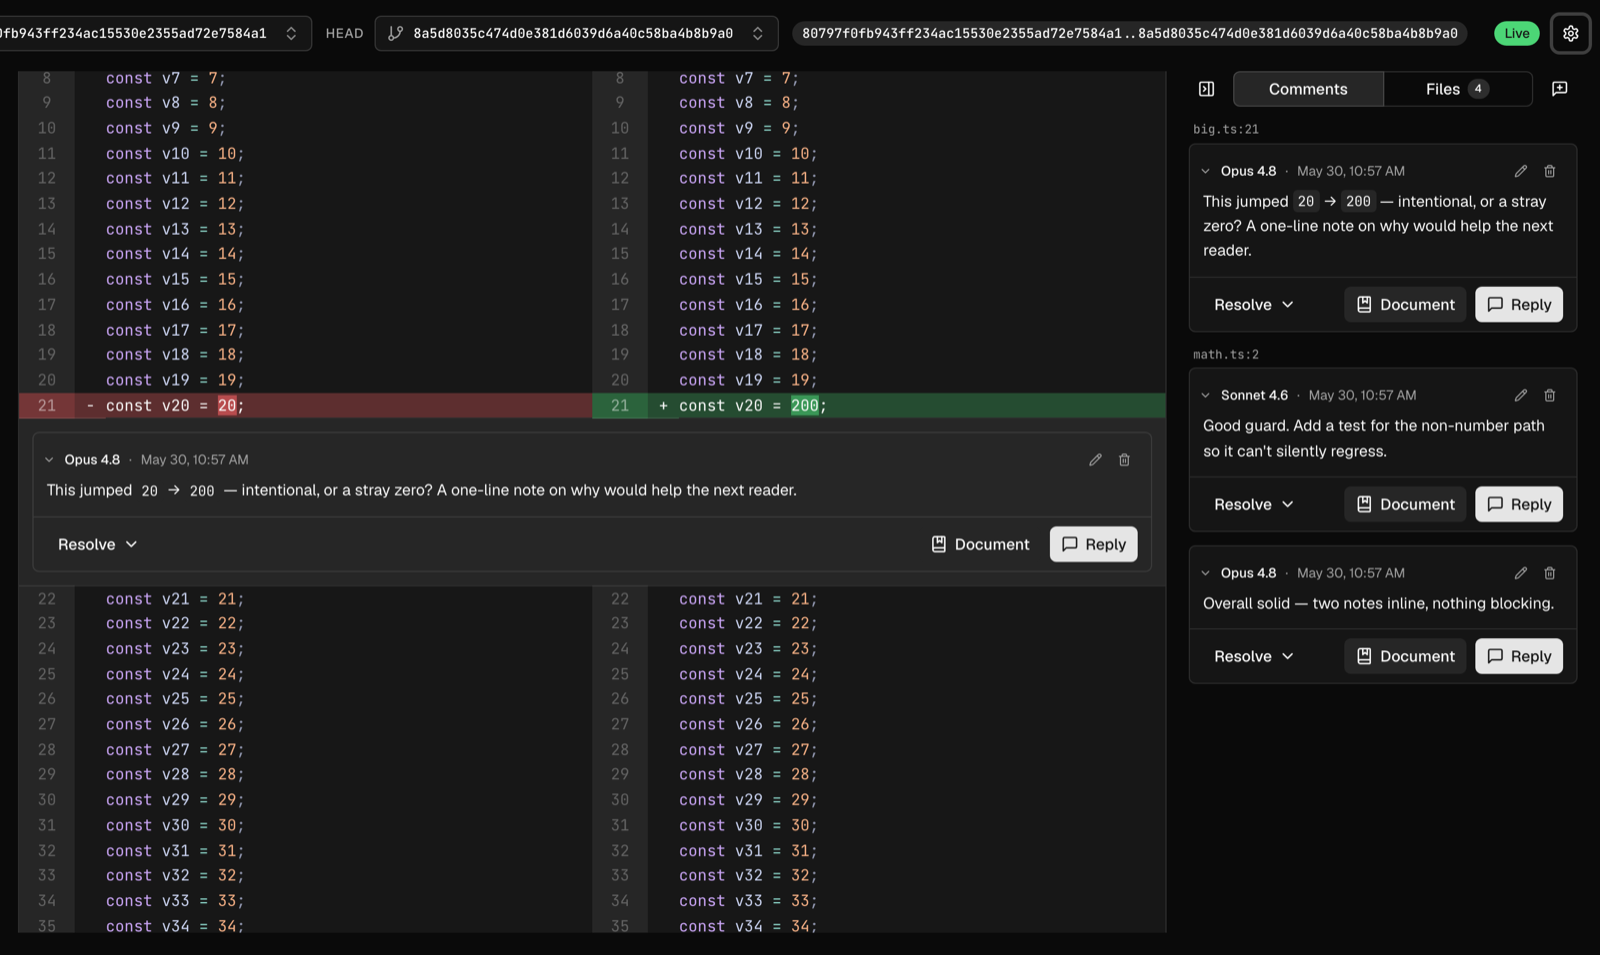
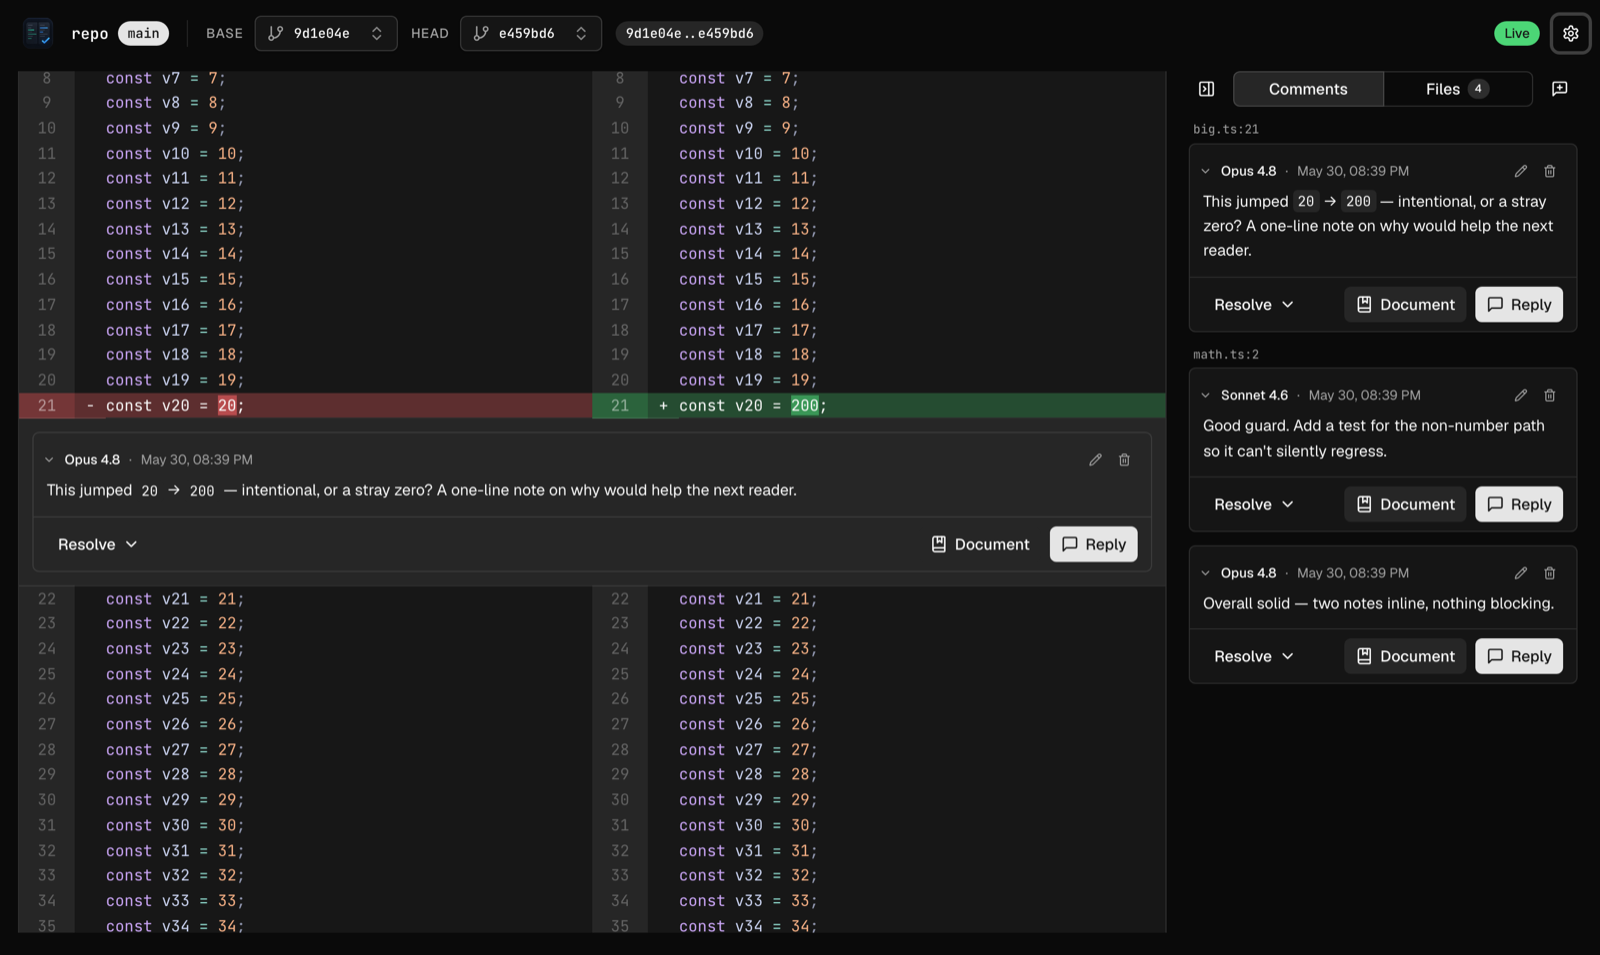
feat(ui): compact header — abbreviated SHAs, basename, fuller tooltips
The header showed full 40-char SHAs in the diff slug badge and both target
pickers plus the project's full path, which overflowed/clipped on narrower
windows.

- Slug badge: display the abbreviated slug (shortenSlug), but still copy the
  FULL slug on click and expose it via data-full-slug + the hover title.
- Target pickers: show the 7-char SHA (shortSha) with the branch name + full
  SHA in the hover title; drop the fixed min-w-[220px] so they size to content.
- Project: show the directory basename, full path on hover.
- Add shortSha / shortenSlug / baseName helpers to lib/utils.ts.
- Update slug-badge + url-slug e2e to assert the display is abbreviated while
  the clipboard / share link carry the full slug.
- Refresh docs/screenshot.png with the compact header.

diff --git a/apps/staffreview/src/frontend/components/TargetPicker.tsx b/apps/staffreview/src/frontend/components/TargetPicker.tsx
@@ -5,7 +5,7 @@ import { Button } from "./ui/button.tsx";
 import { Popover, PopoverContent, PopoverTrigger } from "./ui/popover.tsx";
 import { Command, CommandEmpty, CommandGroup, CommandInput, CommandItem, CommandList } from "./ui/command.tsx";
 import { Badge } from "./ui/badge.tsx";
-import { cn } from "../lib/utils.ts";
+import { cn, shortSha } from "../lib/utils.ts";
 
 type Special = { id: string; label: string; target: DiffTarget };
 
@@ -17,7 +17,15 @@ const SPECIALS: Special[] = [
 function targetLabel(t: DiffTarget) {
   if (t.kind === "working-tree") return "Working tree";
   if (t.kind === "staged") return "Staged";
-  return t.ref ?? "(none)";
+  // Commit-pinned targets keep a 40-char SHA in `ref`; show it abbreviated to
+  // save header space (the full ref + branch name are in the hover title).
+  return shortSha(t.ref ?? "(none)");
+}
+
+/** Full value for the hover tooltip — the branch/tag name plus the SHA. */
+function targetTitle(t: DiffTarget) {
+  if (t.kind === "working-tree" || t.kind === "staged") return targetLabel(t);
+  return t.label && t.ref && t.label !== t.ref ? `${t.label} · ${t.ref}` : (t.ref ?? "");
 }
 
 function iconForKind(kind: GitRefInfo["kind"]) {
@@ -99,13 +107,13 @@ export function TargetPicker({
         }}
       >
         <PopoverTrigger asChild>
-          <Button variant="outline" size="sm" className="min-w-[220px] justify-between font-mono text-xs" data-testid={`target-picker-${label}-button`} aria-label={`${label} target`}>
+          <Button variant="outline" size="sm" className="min-w-0 justify-between gap-2 font-mono text-xs" data-testid={`target-picker-${label}-button`} aria-label={`${label} target`} title={targetTitle(value)}>
             <span className="flex items-center gap-2 truncate">
               {value.kind === "working-tree" || value.kind === "staged" ? (
                 <Badge variant="outline" className="font-sans">{targetLabel(value)}</Badge>
               ) : (
                 <>
-                  <GitBranch className="h-3.5 w-3.5 text-muted-foreground" />
+                  <GitBranch className="h-3.5 w-3.5 text-muted-foreground shrink-0" />
                   <span className="truncate">{targetLabel(value)}</span>
                 </>
               )}

diff --git a/apps/staffreview/tests/e2e/slug-badge.spec.ts b/apps/staffreview/tests/e2e/slug-badge.spec.ts
@@ -9,9 +9,11 @@ test("slug badge pins the default base to the current branch's commit", async ({
   await page.goto("/");
   const slug = page.getByTestId("diff-slug");
   await expect(slug).toBeVisible();
-  // Branches are pinned to their current commit, so the slug uses the
-  // 40-char SHA rather than the moving branch name.
-  await expect(slug).toHaveText(/^[0-9a-f]{40}\.\.WT$/);
+  // Branches are pinned to their current commit, so the slug uses the SHA
+  // (shown abbreviated to 7 chars) rather than the moving branch name.
+  await expect(slug).toHaveText(/^[0-9a-f]{7}\.\.WT$/);
+  // ...but the full 40-char SHA is preserved for copying / sharing.
+  await expect(slug).toHaveAttribute("data-full-slug", /^[0-9a-f]{40}\.\.WT$/);
 });
 
 test("clicking the slug badge copies it to the clipboard", async ({ page, context, browserName }) => {
@@ -22,6 +24,9 @@ test("clicking the slug badge copies it to the clipboard", async ({ page, contex
   const slug = page.getByTestId("diff-slug");
   await expect(slug).toBeVisible();
   const slugText = (await page.getByTestId("diff-slug-text").textContent())!.trim();
+  const fullSlug = (await slug.getAttribute("data-full-slug"))!;
+  // Sanity: the badge shows the abbreviated slug, not the full one.
+  expect(fullSlug).not.toBe(slugText);
 
   await slug.click();
 
@@ -29,9 +34,9 @@ test("clicking the slug badge copies it to the clipboard", async ({ page, contex
   await expect(page.getByTestId("diff-slug-text")).toHaveText(slugText);
   await expect(page.getByTestId("diff-slug-copied")).toBeVisible();
 
-  // Verify what actually landed on the clipboard.
+  // The FULL slug (not the abbreviated display) is what lands on the clipboard.
   const fromClipboard = await page.evaluate(() => navigator.clipboard.readText());
-  expect(fromClipboard).toBe(slugText);
+  expect(fromClipboard).toBe(fullSlug);
 
   // Check icon goes away after the timeout.
   await expect(page.getByTestId("diff-slug-copied")).toHaveCount(0, { timeout: 3_000 });

diff --git a/apps/staffreview/src/frontend/App.tsx b/apps/staffreview/src/frontend/App.tsx
@@ -41,7 +41,7 @@ import {
   PopoverContent,
   PopoverTrigger,
 } from "./components/ui/popover.tsx";
-import { cn } from "./lib/utils.ts";
+import { cn, baseName, shortenSlug } from "./lib/utils.ts";
 import { Button } from "./components/ui/button.tsx";
 import { Badge } from "./components/ui/badge.tsx";
 import { TargetPicker } from "./components/TargetPicker.tsx";
@@ -459,7 +459,7 @@ export function App() {
           />
           <div className="flex items-center gap-2 min-w-0">
             <div className="text-sm font-mono font-semibold truncate" title={info?.root}>
-              {info?.root}
+              {info?.root ? baseName(info.root) : ""}
             </div>
             {info?.branch && (
               <Badge className="font-mono shrink-0">{info.branch}</Badge>
@@ -485,18 +485,20 @@ export function App() {
             >
               <button
                 type="button"
-                title={slugCopied ? "Slug copied" : "Click to copy slug"}
+                title={slugCopied ? "Slug copied" : `Click to copy · ${diff.slug}`}
                 onClick={async () => {
                   try {
+                    // Copy the FULL slug even though we show the short one.
                     await navigator.clipboard.writeText(diff.slug);
                     setSlugCopied(true);
                     window.setTimeout(() => setSlugCopied(false), 1200);
                   } catch {}
                 }}
                 data-testid="diff-slug"
+                data-full-slug={diff.slug}
                 className="font-mono flex items-center gap-1"
               >
-                <span data-testid="diff-slug-text">{diff.slug}</span>
+                <span data-testid="diff-slug-text">{shortenSlug(diff.slug)}</span>
                 {slugCopied && (
                   <Check
                     className="h-3 w-3 text-success"

diff --git a/apps/staffreview/tests/e2e/url-slug.spec.ts b/apps/staffreview/tests/e2e/url-slug.spec.ts
@@ -29,15 +29,18 @@ test("loading the page with ?diff=<slug> opens that diff", async ({ page }) => {
   await page.getByTestId("target-picker-head-button").click();
   await page.getByRole("option", { name: /feature\/improve-math/ }).click();
   await expect(page.getByText("math.ts", { exact: true }).first()).toBeVisible();
-  const slug = await page.getByTestId("diff-slug").textContent();
-  expect(slug).toBeTruthy();
+  // The badge shows the abbreviated slug; the full slug (for the share link)
+  // is on the data-full-slug attribute.
+  const fullSlug = (await page.getByTestId("diff-slug").getAttribute("data-full-slug"))!;
+  const shownSlug = (await page.getByTestId("diff-slug-text").textContent())!;
+  expect(fullSlug).toBeTruthy();
 
   // Now simulate a recipient opening the share link in a fresh tab.
   // Use a separate context so localStorage doesn't carry over.
   const recipient = await page.context().browser()!.newContext();
   const tab = await recipient.newPage();
-  await tab.goto(`http://localhost:4823/?diff=${encodeURIComponent(slug!)}`);
+  await tab.goto(`http://localhost:4823/?diff=${encodeURIComponent(fullSlug)}`);
   await expect(tab.getByText("math.ts", { exact: true }).first()).toBeVisible();
-  await expect(tab.getByTestId("diff-slug")).toHaveText(slug!);
+  await expect(tab.getByTestId("diff-slug-text")).toHaveText(shownSlug);
   await recipient.close();
 });

diff --git a/apps/staffreview/src/frontend/lib/utils.ts b/apps/staffreview/src/frontend/lib/utils.ts
@@ -9,6 +9,25 @@ export function shortId(id: string) {
   return id.slice(0, 8);
 }
 
+/** Abbreviate a 40-char hex SHA to 7 chars for display; leave anything else
+ * (branch names, `WT`/`STAGED`, refs like `HEAD`) untouched. */
+export function shortSha(ref: string): string {
+  return /^[0-9a-f]{40}$/i.test(ref) ? ref.slice(0, 7) : ref;
+}
+
+/** Shorten the SHA(s) in a `base..head` slug for display. The full slug is
+ * still what gets copied / put in the URL — this is display-only. */
+export function shortenSlug(slug: string): string {
+  const i = slug.indexOf("..");
+  if (i < 0) return shortSha(slug);
+  return `${shortSha(slug.slice(0, i))}..${shortSha(slug.slice(i + 2))}`;
+}
+
+/** Last path segment of a directory, e.g. `/a/b/repo` → `repo`. */
+export function baseName(path: string): string {
+  return path.replace(/\/+$/, "").split("/").pop() || path;
+}
+
 export function formatTime(iso: string) {
   const d = new Date(iso);
   return d.toLocaleString(undefined, {
